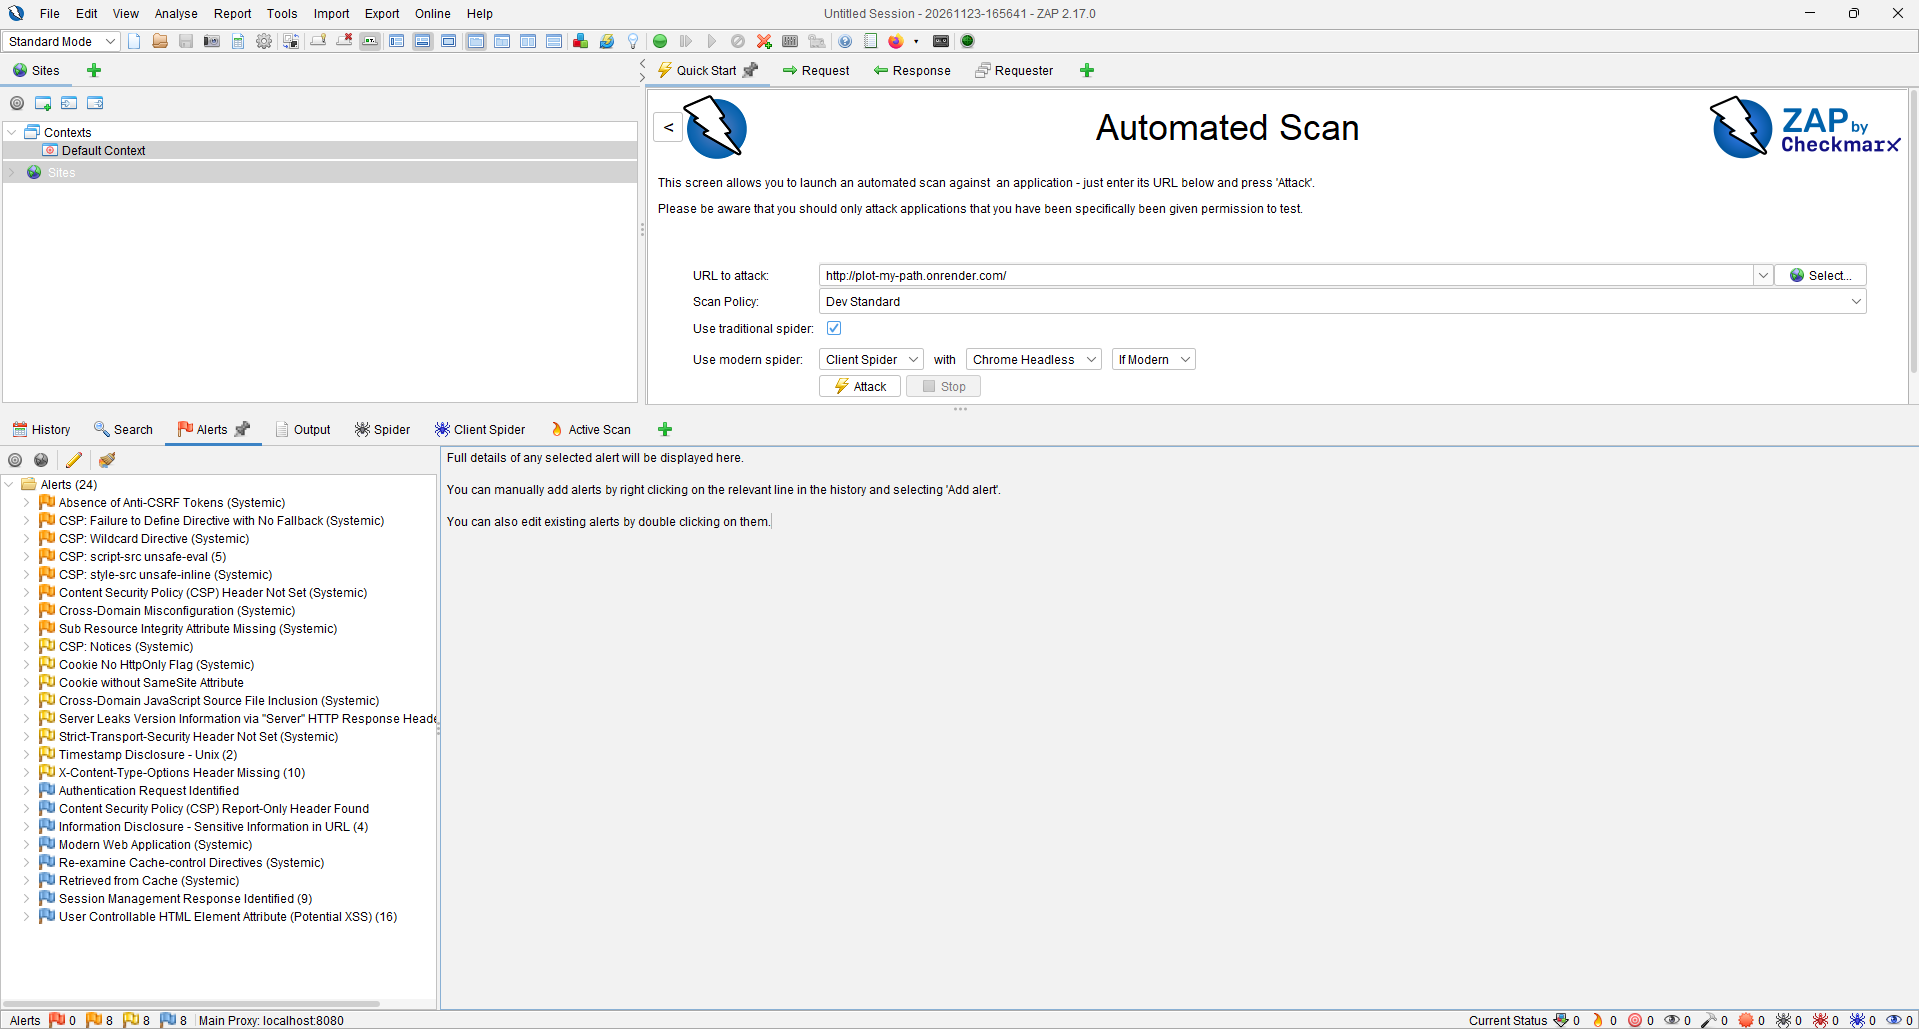
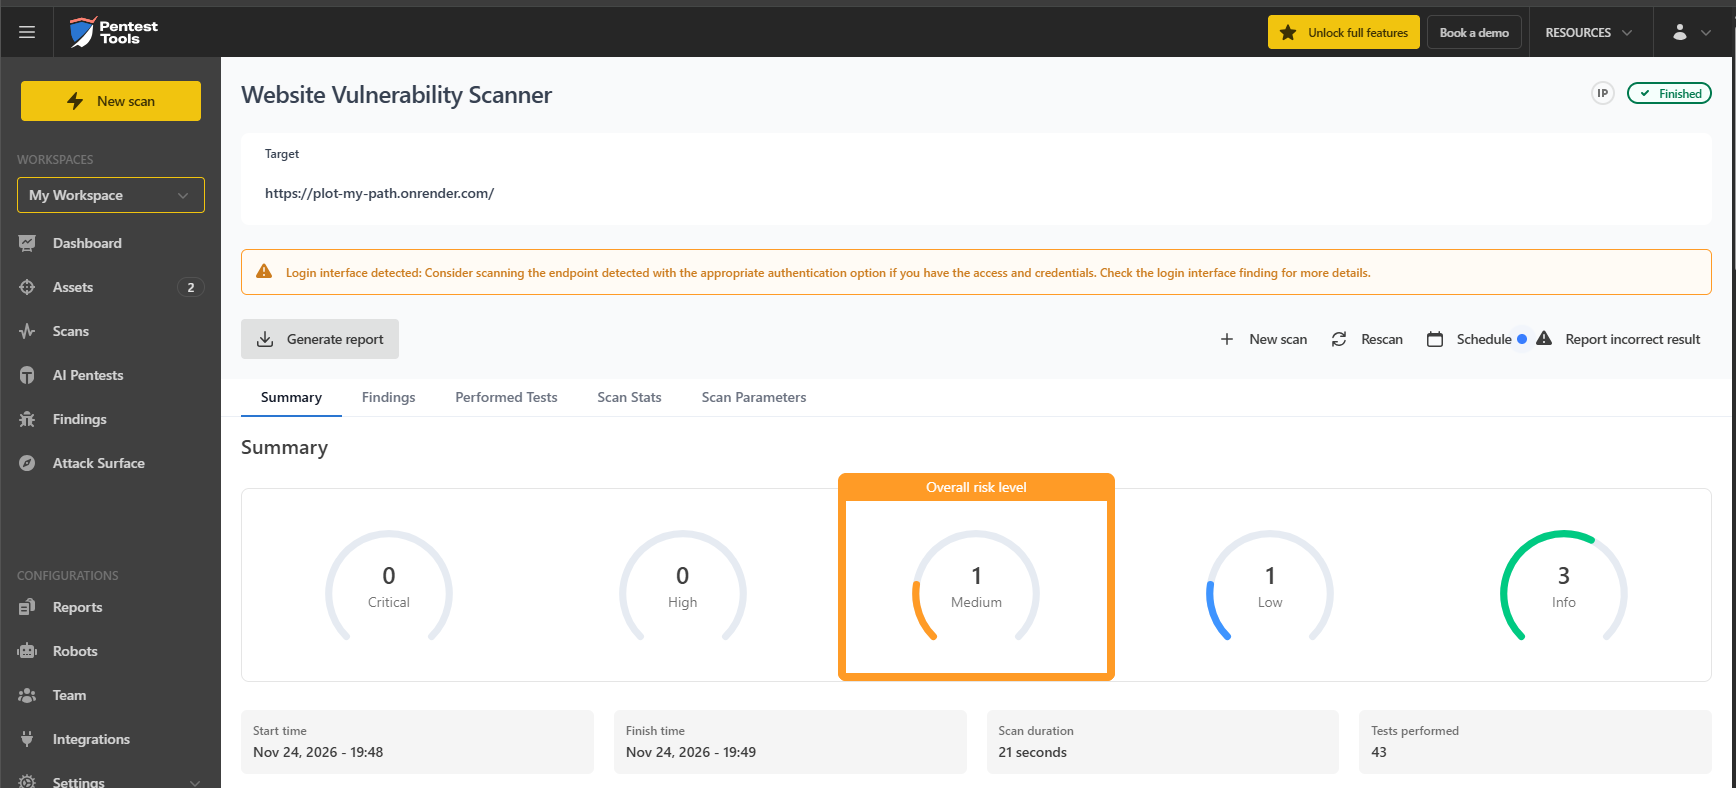
readme security-CSP policy updated

diff --git a/README.md b/README.md
@@ -917,29 +917,32 @@ The tests mock React mounting and API requests so that the application's JavaScr
 
 #### Security 
 ---
+Content Security Policy
+---
+
+To make my project as secure as possible, I decided to add a Content Security Policy (CSP). An enforced CSP reduces the risk of Cross-Site Scripting (XSS), clickjacking and the unauthorised loading of external resources. I initially set the policy up in report-only mode so I could test it and identify any violations without breaking the site. Once I had reviewed the reports, I switched to enforcement using Django's SECURE_CSP setting. The following changes were needed to make it work effectively:
+
+- **Removed inline styles:** The landing page background image was triggering CSP violations because it was set using an inline HTML style attribute. I moved it into a class in my CSS stylesheet instead. This removed the need to permit inline styles in my CSP, and the image still loads as before.
+- **Updated the policy for Google OAuth sign-in:** When I first enforced the CSP, Google sign-in stopped working. After investigating, I discovered that the OAuth flow redirects to Google's authentication endpoint, which the CSP was blocking. Adding form-action with Google's domain fixed this, and on retesting the sign-in worked perfectly.
+
+The CSP configuration is as follows:
+
+| Directive                                         | Purpose                                                                                                               |
+|---------------------------------------------------|-----------------------------------------------------------------------------------------------------------------------|
+| `default-src 'self'`                              | Restricts resources to the application's own origin by default.                                                       |
+| `script-src 'self' 'nonce-...'`                   | Allows scripts from the application's own origin, plus explicitly authorised inline scripts using a per-response nonce. |
+| `img-src 'self' data: https://res.cloudinary.com` | Allows local images, data URI images and images hosted by Cloudinary.                                                 |
+| `base-uri 'self'`                                 | Prevents unauthorised external base URLs from being used.                                                             |
+| `form-action 'self' https://accounts.google.com`  | Restricts form submissions to the application and permits the Google OAuth authentication flow.                       |
+| `frame-ancestors 'none'`                          | Prevents the application from being embedded in frames, protecting against clickjacking.                              |
+| `object-src 'none'`                               | Blocks potentially unsafe embedded objects such as Flash.                                                             |
+| `connect-src 'self' https://tiles.openfreemap.org` | Restricts network connections to the application and the OpenFreeMap tile service.                                   |
+
 ![security test 1](..//plot_my_path/static/images/readme-img/security-test-1.png)
 
 
 Results 
-- Abscensce of Anti CSRF Tokens- Having thoroughly checked thrrough all of my forms I can confirm that is being flagged up for my google OAath sign in form which submits directly to google authentication endpoint. Its implementation is managed by google and are outside the control of my application. Djangos own CSRF mmiddleware remain enabl;ed to protect the applications forms and Post requests. Due to all that evidence the error is considered not applicable and treated as an externam third party finding.  
 
-CSP Failure to Define Directive with No fallback- Added middleware and from django.utils.csp import CSP
-
-SECURE_CSP_REPORT_ONLY = {
-    "default-src": [CSP.SELF],
-
-    "base-uri": [CSP.SELF],
-
-    "form-action": [CSP.SELF],
-
-    "frame-ancestors": [CSP.NONE],
-
-    "object-src": [CSP.NONE],
-}
-SECURE_HSTS_SECONDS = 31536000
-SECURE_HSTS_INCLUDE_SUBDOMAINS = False
-SECURE_HSTS_PRELOAD = False  to my settings to help add 
-[back to top](#plot-my-path)
 #### Automated Testing
 ---
 
